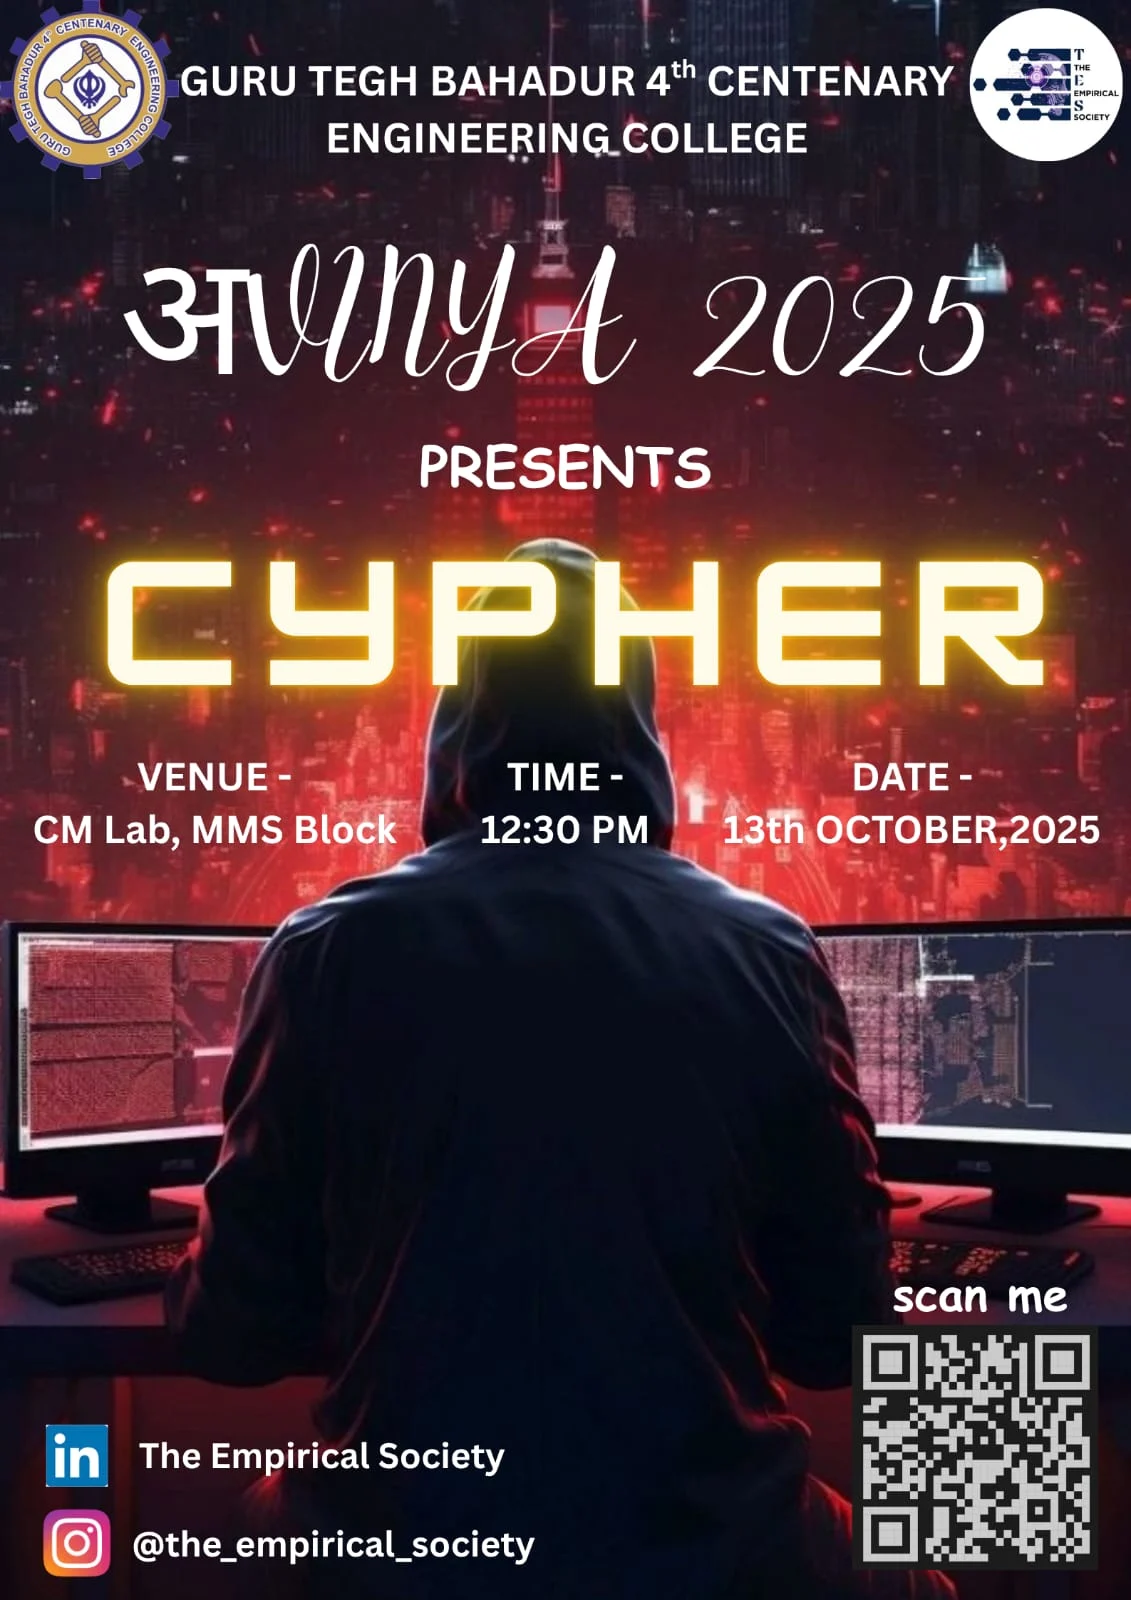
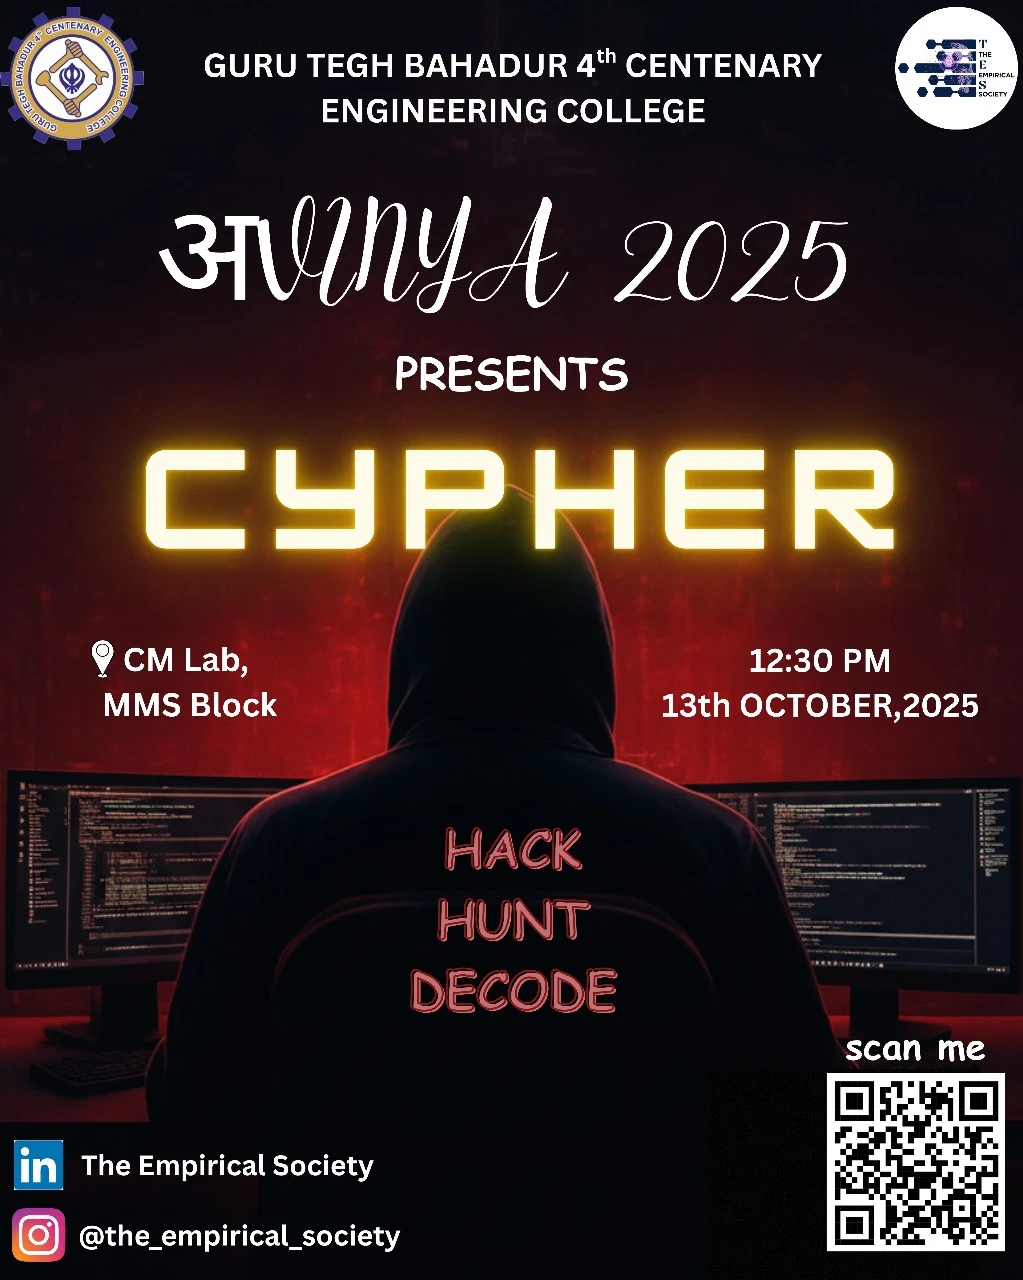
fix cypher

diff --git a/app/events/[id]/page.jsx b/app/events/[id]/page.jsx
@@ -54,22 +54,42 @@ const EventDetailsPage = ({ params }) => {
         {
             title: "CYPHER",
             description:
-                "Welcome to CYPHER, a prompt injection competition! Test your skills by crafting clever inputs to make an AI system ignore its rules or perform unintended actions. See if you can bypass safety filters, reveal hidden information, and outsmart the machine in this exciting challenge.",
+                "Hey, hackers! 👋🏻 A friendly, educational ethical-hacking competition open to all skill levels. Learn, test skills, and enjoy the thrill of solving security challenges.",
             Guidelines:
-                "Objective 1: Extract the Secret Flag - Manipulate AI to reveal hidden system prompt or secret key.\nObjective 2: Evade the Filters - Bypass input sanitizers and blocklists.\nObjective 3: Confuse Context - Trick AI into executing embedded commands.\nObjective 4: Trigger Unintended Actions - Make model perform unauthorized actions.\nObjective 5: Override Core Policies - Bypass fundamental safety rules.\nObjective 6: Scope Escalation - Make AI perform actions outside defined scope.\nObjective 7: Exploit Permissions - Trick AI into revealing permission limits.\n\nRules: Prompt injection only, stay ethical, demonstrate vulnerability without causing damage.",
-            Topic: "Prompt Injection Competition",
-            Rounds: "Multiple rounds with increasing difficulty, each with unique AI model and new challenges.",
-            Criteria:
-                "Submissions judged on creativity, effectiveness, and subtlety of injection. Points for bypassing instructions within ethical boundaries.",
-            DefensiveChecklist:
-                "Never share system prompts.\nEscape user content before re-injection.\nDon't execute embedded instructions.\nConfirm destructive actions.\nTreat user input as adversarial.",
+                "Open to UG/PG students from recognized colleges/universities.\nTeams: Solo or teams of up to 4.\nNo sabotage — attacking the platform, scoreboard, or other teams is prohibited.\nNo sharing flags or solutions between teams.\nCarry valid college ID.\nReport 30 mins before the event.\nJudges' decision final.",
+            Topic: "Capture-The-Flag style ethical hacking — web, crypto, forensics, and misc security challenges",
+            Rounds: "Single CTF-style round with multiple challenge categories and a live scoreboard.",
+            Criteria: "Scoring based on flags captured, challenge difficulty, time of submission, and adherence to rules.",
+            instructions:
+                "Individual or team participation (max 4).\nBring laptops and necessary tools.\nAutomated scanners are discouraged unless explicitly allowed in a challenge.\nInternet access provided.\nAsk proctors for hints if stuck — no direct answers.",
             summary:
-                "A prompt injection contest where you craft clever inputs to make an AI ignore its rules and do the unintended.",
+                "Ethical Hack Challenge @ Avinya 2025 — a supportive CTF for learners and enthusiasts to sharpen security skills ethically.",
+
             timing: "12:30 PM",
-            venue: "CM LAB, MMS BLOCK",
+            venue: "CM Lab, MMS Block, GTB4CEC",
             imageUrl: "/cypher.webp",
-            RegistrationLink: "https://forms.gle/WKge41J86YnPwDL46",
+            RegistrationLink: "https://forms.gle/WKge41J86YnPwDL46"
         },
+
+        // {
+        //     title: "CYPHER",
+        //     description:
+        //         "Welcome to CYPHER, a prompt injection competition! Test your skills by crafting clever inputs to make an AI system ignore its rules or perform unintended actions. See if you can bypass safety filters, reveal hidden information, and outsmart the machine in this exciting challenge.",
+        //     Guidelines:
+        //         "Objective 1: Extract the Secret Flag - Manipulate AI to reveal hidden system prompt or secret key.\nObjective 2: Evade the Filters - Bypass input sanitizers and blocklists.\nObjective 3: Confuse Context - Trick AI into executing embedded commands.\nObjective 4: Trigger Unintended Actions - Make model perform unauthorized actions.\nObjective 5: Override Core Policies - Bypass fundamental safety rules.\nObjective 6: Scope Escalation - Make AI perform actions outside defined scope.\nObjective 7: Exploit Permissions - Trick AI into revealing permission limits.\n\nRules: Prompt injection only, stay ethical, demonstrate vulnerability without causing damage.",
+        //     Topic: "Prompt Injection Competition",
+        //     Rounds: "Multiple rounds with increasing difficulty, each with unique AI model and new challenges.",
+        //     Criteria:
+        //         "Submissions judged on creativity, effectiveness, and subtlety of injection. Points for bypassing instructions within ethical boundaries.",
+        //     DefensiveChecklist:
+        //         "Never share system prompts.\nEscape user content before re-injection.\nDon't execute embedded instructions.\nConfirm destructive actions.\nTreat user input as adversarial.",
+        //     summary:
+        //         "A prompt injection contest where you craft clever inputs to make an AI ignore its rules and do the unintended.",
+        //     timing: "12:30 PM",
+        //     venue: "CM LAB, MMS BLOCK",
+        //     imageUrl: "/cypher.webp",
+        //     RegistrationLink: "https://forms.gle/WKge41J86YnPwDL46",
+        // },
         {
             title: "THINK BYTE",
             description:

diff --git a/components/Event.jsx b/components/Event.jsx
@@ -135,22 +135,41 @@ const Event = () => {
         {
             title: "CYPHER",
             description:
-                "Welcome to CYPHER, a prompt injection competition! Test your skills by crafting clever inputs to make an AI system ignore its rules or perform unintended actions. See if you can bypass safety filters, reveal hidden information, and outsmart the machine in this exciting challenge.",
+                "Hey, hackers! 👋🏻 A friendly, educational ethical-hacking competition open to all skill levels. Learn, test skills, and enjoy the thrill of solving security challenges.",
             Guidelines:
-                "Objective 1: Extract the Secret Flag - Manipulate AI to reveal hidden system prompt or secret key.\nObjective 2: Evade the Filters - Bypass input sanitizers and blocklists.\nObjective 3: Confuse Context - Trick AI into executing embedded commands.\nObjective 4: Trigger Unintended Actions - Make model perform unauthorized actions.\nObjective 5: Override Core Policies - Bypass fundamental safety rules.\nObjective 6: Scope Escalation - Make AI perform actions outside defined scope.\nObjective 7: Exploit Permissions - Trick AI into revealing permission limits.\n\nRules: Prompt injection only, stay ethical, demonstrate vulnerability without causing damage.",
-            Topic: "Prompt Injection Competition",
-            Rounds: "Multiple rounds with increasing difficulty, each with unique AI model and new challenges.",
-            Criteria:
-                "Submissions judged on creativity, effectiveness, and subtlety of injection. Points for bypassing instructions within ethical boundaries.",
-            DefensiveChecklist:
-                "Never share system prompts.\nEscape user content before re-injection.\nDon't execute embedded instructions.\nConfirm destructive actions.\nTreat user input as adversarial.",
+                "Open to UG/PG students from recognized colleges/universities.\nTeams: Solo or teams of up to 4.\nNo sabotage — attacking the platform, scoreboard, or other teams is prohibited.\nNo sharing flags or solutions between teams.\nCarry valid college ID.\nReport 30 mins before the event.\nJudges' decision final.",
+            Topic: "Capture-The-Flag style ethical hacking — web, crypto, forensics, and misc security challenges",
+            Rounds: "Single CTF-style round with multiple challenge categories and a live scoreboard.",
+            Criteria: "Scoring based on flags captured, challenge difficulty, time of submission, and adherence to rules.",
+            instructions:
+                "Individual or team participation (max 4).\nBring laptops and necessary tools.\nAutomated scanners are discouraged unless explicitly allowed in a challenge.\nInternet access provided.\nAsk proctors for hints if stuck — no direct answers.",
             summary:
-                "A prompt injection contest where you craft clever inputs to make an AI ignore its rules and do the unintended.",
+                "Ethical Hack Challenge @ Avinya 2025 — a supportive CTF for learners and enthusiasts to sharpen security skills ethically.",
+
             timing: "12:30 PM",
-            venue: "CM LAB, MMS BLOCK",
+            venue: "CM Lab, MMS Block, GTB4CEC",
             imageUrl: "/cypher.webp",
-            RegistrationLink: "https://forms.gle/WKge41J86YnPwDL46",
+            RegistrationLink: "https://forms.gle/WKge41J86YnPwDL46"
         },
+        // {
+        //     title: "CYPHER",
+        //     description:
+        //         "Welcome to CYPHER, a prompt injection competition! Test your skills by crafting clever inputs to make an AI system ignore its rules or perform unintended actions. See if you can bypass safety filters, reveal hidden information, and outsmart the machine in this exciting challenge.",
+        //     Guidelines:
+        //         "Objective 1: Extract the Secret Flag - Manipulate AI to reveal hidden system prompt or secret key.\nObjective 2: Evade the Filters - Bypass input sanitizers and blocklists.\nObjective 3: Confuse Context - Trick AI into executing embedded commands.\nObjective 4: Trigger Unintended Actions - Make model perform unauthorized actions.\nObjective 5: Override Core Policies - Bypass fundamental safety rules.\nObjective 6: Scope Escalation - Make AI perform actions outside defined scope.\nObjective 7: Exploit Permissions - Trick AI into revealing permission limits.\n\nRules: Prompt injection only, stay ethical, demonstrate vulnerability without causing damage.",
+        //     Topic: "Prompt Injection Competition",
+        //     Rounds: "Multiple rounds with increasing difficulty, each with unique AI model and new challenges.",
+        //     Criteria:
+        //         "Submissions judged on creativity, effectiveness, and subtlety of injection. Points for bypassing instructions within ethical boundaries.",
+        //     DefensiveChecklist:
+        //         "Never share system prompts.\nEscape user content before re-injection.\nDon't execute embedded instructions.\nConfirm destructive actions.\nTreat user input as adversarial.",
+        //     summary:
+        //         "A prompt injection contest where you craft clever inputs to make an AI ignore its rules and do the unintended.",
+        //     timing: "12:30 PM",
+        //     venue: "CM LAB, MMS BLOCK",
+        //     imageUrl: "/cypher.webp",
+        //     RegistrationLink: "https://forms.gle/WKge41J86YnPwDL46",
+        // },
         {
             title: "THINK BYTE",
             description:
